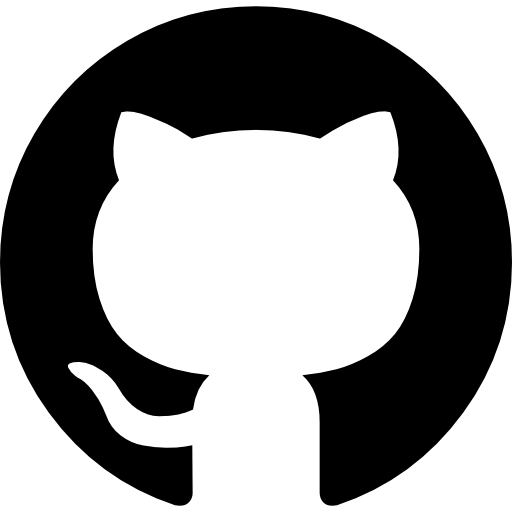
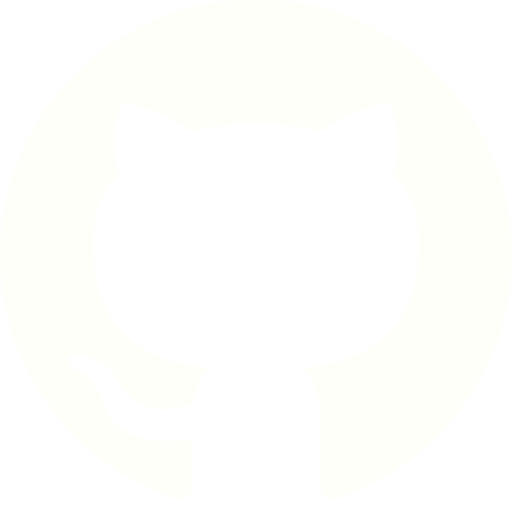
added details to index page, added skill/contact pills

diff --git a/src/pages/index.tsx b/src/pages/index.tsx
@@ -1,6 +1,10 @@
 import Head from 'next/head';
 import Image from 'next/image'
 import Link from 'next/link';
+import SkillPill from '@/components/skill-pill';
+import GridImage from '@/components/grid-image';
+import ContactPill from '@/components/contact-pill';
+
 export default function About() {
   return (
     <main>
@@ -10,90 +14,103 @@ export default function About() {
       <div className="flex justify-center mt-8 mb-8">
         <div>
           <Image
-              src="/portrait-img.png"
-              width={500}
-              height={500}
+            src="/portrait-img.png"
+            height={500}
+            width={500}
             alt="Profile Image"
             className=" w-96 border-8 border-black"
-            />
+          />
         </div>
         <div className="w-96 ml-8">
           <h2 className="font-bold text-3xl">KATIE SMITH</h2>
           <h3 className="font-bold text-l ml-16">Software Developer & Textile Designer</h3>
           <div>
-            <p className="mt-8">A Software Developer and Textile Design graduate with skills in both and front-end and back-end development (React/Next.js, Laravel). Eager to start a career within the tech industry to expand my skilset within a professional enviroment.</p>
+            <p className="mt-8 tracking-wide">A Software Developer and Textile Design graduate with skills in both and front-end and back-end development (React/Next.js, Laravel). Eager to start a career within the tech industry to expand my skilset within a professional enviroment.</p>
             <div className="inline-flex items-center justify-center w-full">
               <hr className="w-96 h-1 my-8 bg-black border-0 rounded" />
               <div className="absolute px-4 bg-black">
                 <h3 className="font-bold text-l text-white">Contact Me</h3>
               </div>
-      </div>
-
-     <div className="flex justify-center mb-8">
-        <div className="w-96 ml-8 flex content-center">
-          <ul className="w-auto">
-            <div className="flex items-center hover:opacity-20">
-            <Link className="flex" href="https://github.com/ktsm-th">
-              <Image
-                src="/github.png"
-                width={30}
-                height={30}
-                alt="github"
-                />
-                <li className="ml-2 mt-1">/ktsm-th</li>
-                </Link>
             </div>
-            <div className="flex items-center mt-3 hover:opacity-20">
-            <Link className="flex" href="https://www.linkedin.com/in/katie-smith-dev/">
-              <Image
-                src="/linkedin.png"
-                width={30}
-                height={30}
-                alt="linkedIn"
-                className=""
-                />
-              <li className="ml-2 font-">/katie-smith-dev</li>
-              </Link>
+            <div className="flex justify-center mb-2">
+              <div className="w-96 ml-8 flex content-center">
+                <ul className="w-auto">
+                  <div className="flex items-center hover:opacity-70">
+                    <ContactPill
+                      icon={"/icons/w-github.png"}
+                      text={"/ktsm-th"}
+                      link={"https://github.com/ktsm-th"}
+                    />
+                  </div>
+                  <div className="flex items-center hover:opacity-70">
+                    <ContactPill
+                      icon={"/icons/w-linkedin.png"}
+                      text={"/katie-smith-dev"}
+                      link={"https://www.linkedin.com/in/katie-smith-dev/"}
+                    />
+                  </div>
+                  <div className="flex items-center hover:opacity-70">
+                    <ContactPill
+                      icon={"/icons/w-instagram.png"}
+                      text={"/ktsm.thbcu"}
+                      link={"https://www.instagram.com/ktsm.thbcu/"}
+                    />
+                  </div>
+                  <div className="flex items-center">
+                    <ContactPill
+                      icon={"/icons/w-email.png"}
+                      text={"hello@katiesmith.dev"}
+                      link={""}
+                    />
+                  </div>
+                </ul>
+                <div className="flex justify-end mt-2" >
+                  <Image
+                    src="/favicon.png"
+                    alt="Favicon Image"
+                    height="100"
+                    width="100"
+                    className="w-32 mb-4"
+                  />
+                </div>
+              </div>
             </div>
-            <div className="flex items-center mt-3 hover:opacity-20">
-            <Link className="flex" href="https://www.instagram.com/ktsm.thbcu/">
-              <Image
-                src="/instagram.png"
-                width={30}
-                height={30}
-                alt="instragram"
-                className=""
-                />
-                <li className="ml-2">/ktsm.thbcu</li>
-                </Link>
-            </div>
-            <div className="flex items-center mt-3">
-              <Image
-                src="/email.png"
-                width={30}
-                height={30}
-                alt="email"
-                className=""
-                />
-                <li className="ml-2">hello@katiesmith.dev</li>
-            </div>
-          </ul>
-          <div className="flex justify-end mt-2" >
-            <Image
-                src="/favicon.png"
-                alt="Favicon Image"
-                height="100"
-                width="100"
-                className="w-32 mb-4"
-              />
-            </div>
-        </div>
-      </div>
-
           </div>
         </div>
       </div>
-
+      <div className="">
+        <h2 className="font-bold text-3xl mb-8 flex justify-center">WHO AM I?</h2>
+        <div className="flex justify-center">
+          <p className='w-auto max-w-3xl mb-8 tracking-wide'>
+            Hello! I'm Katie, an aspiring software developer and Textile Design graduate. I am self-taught, and learnt to code alongside studying for my degree and have
+            found that I love creating with React/Next.js and style frameworks, mainly Tailwind. I also have experience in the standard front-end languages
+            (HTML, CSS, Javascript) and working alongside external APIs, as  well as my own APIs created in Laravel with unit tests.
+          </p>
+        </div>
+        <div className="flex flex-wrap justify-center mb-8">
+          <div className="flex max-w-3xl">
+            <SkillPill name={'React.js'} icon={'/react.png'} />
+            <SkillPill name={'Next.js'} icon={'/next.png'}/>
+            <SkillPill name={'Laravel'} icon={'/laravel.png'} />
+            <SkillPill name={'TailwindCSS'} icon={'/tailwind.png'}/>
+            <SkillPill name={'HTML'} icon={'/html.png'}/>
+            <SkillPill name={'CSS'} icon={'/css.png'}/>
+            <SkillPill name={'Javascript'} icon={'/javascript.png'} />
+            </div>
+        </div>
+        <div className="flex justify-center">
+          <p className='w-auto max-w-3xl mb-8 tracking-wide'>
+            From a more personal standpoint, I'm always listening to music and going to gigs - my favourite artists at the minute are Yard Act, New Order, Blink-182 and Pulp,
+            but I'm always listening to different things. In my spare time I play lots of different games and have a love for older consoles, I also love fitness, sewing,
+            collecting plants and playing bass. Most importantly though I spend my time looking after my cat, Sushi.
+          </p>
+        </div>
+        <div className="">
+          <div className="flex flex-wrap justify-center">
+            <GridImage image={"/personal/2.png"} width={400} height={400} />
+            </div>
+        </div>
+      </div>
     </main>
   )
 }

diff --git a/src/components/contact-pill.tsx b/src/components/contact-pill.tsx
@@ -1,0 +1,25 @@
+import Link from 'next/link';
+import Image from 'next/image';
+
+type ContactPillProps = {
+  icon: string,
+  text: string,
+  link: string,
+}
+
+export default function SkillPill({ icon, text, link }: ContactPillProps) {
+  return (
+    <div className={"hover:drop-shadow-sm" }>
+      <Link href={link} className={"text-center text-white font-bold bg-black rounded w-fit pr-2.5 pl-2.5 h-8 flex justify-center items-center text-base mt-1 mr-1"}>
+        <Image
+        src={icon}
+        width={25}
+        height={25}
+        alt={`${link} icon`}
+        className="mr-2"
+      />
+        {text}
+      </Link>
+    </div>
+  )
+}

diff --git a/src/components/skill-pill.tsx b/src/components/skill-pill.tsx
@@ -1,0 +1,24 @@
+import Link from 'next/link';
+import Image from 'next/image';
+
+type SkillPillProps = {
+  icon: string,
+  name: string,
+}
+
+export default function SkillPill({ icon, name }: SkillPillProps) {
+  return (
+    <div className={"hover:drop-shadow-sm" }>
+      <p className={"text-center text-white font-bold bg-black rounded w-fit pr-2.5 pl-2.5 h-8 flex justify-center items-center text-base mt-1 mr-1"}>
+        <Image
+        src={icon}
+        width={25}
+        height={25}
+        alt={`${name} icon`}
+        className="mr-1"
+      />
+        {name}
+      </p>
+    </div>
+  )
+}

diff --git a/src/components/grid-image.tsx b/src/components/grid-image.tsx
@@ -1,0 +1,22 @@
+import Link from 'next/link';
+import Image from 'next/image';
+
+type GridImageProps = {
+  image: string,
+  width: number,
+  height: number,
+}
+
+export default function GridImage({image, width, height}: GridImageProps) {
+  return (
+  <div>
+        <Image
+        src={image}
+        width={width}
+        height={height}
+        alt={""}
+        className="mr-1 border-8 border-black"
+      />
+    </div>
+  )
+}
